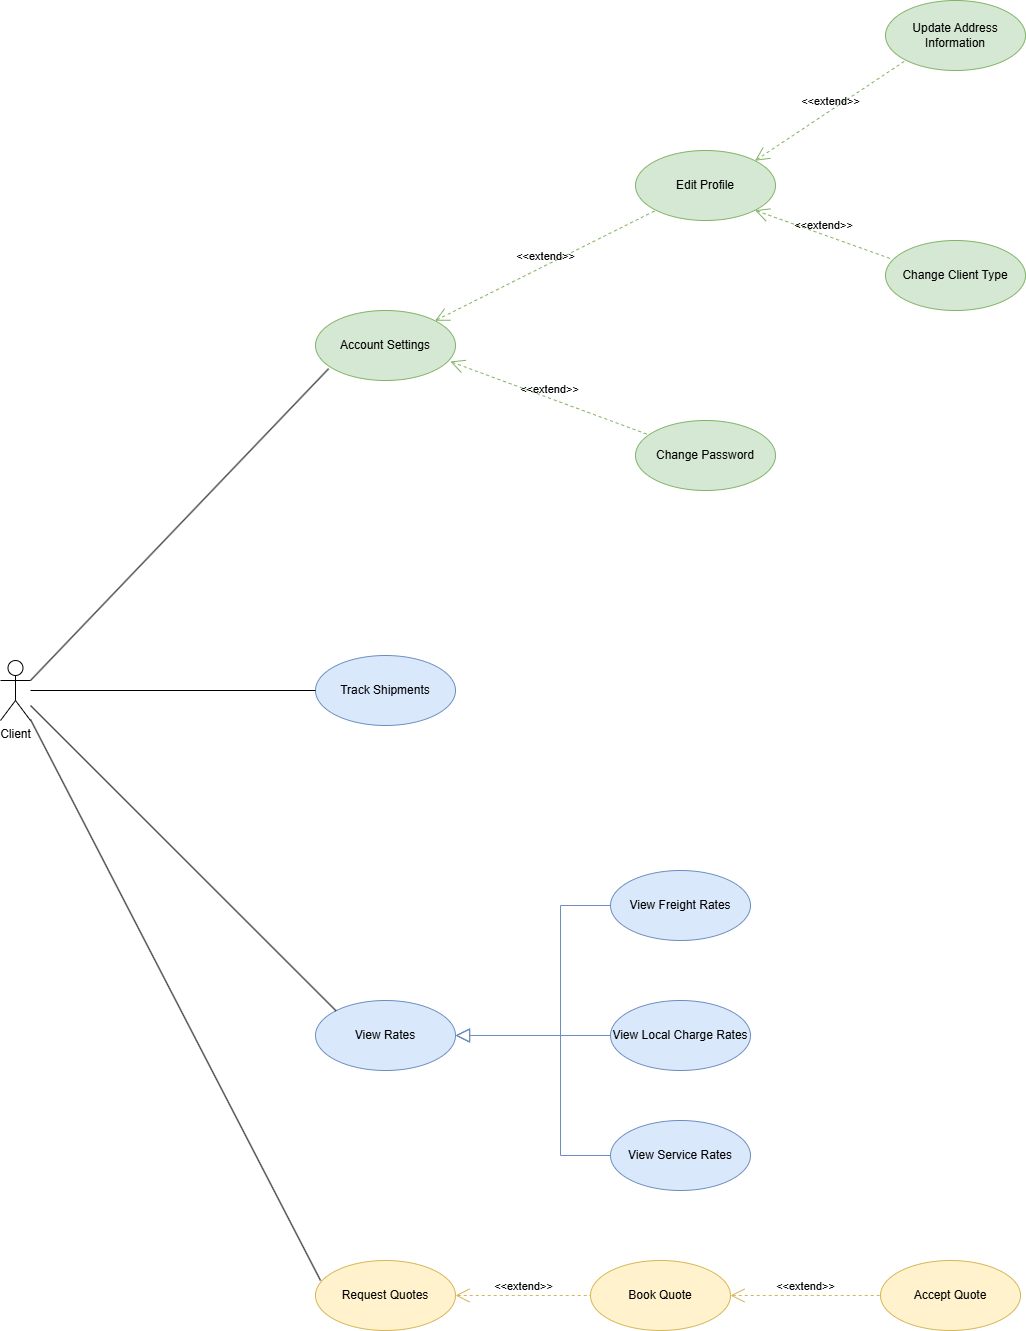
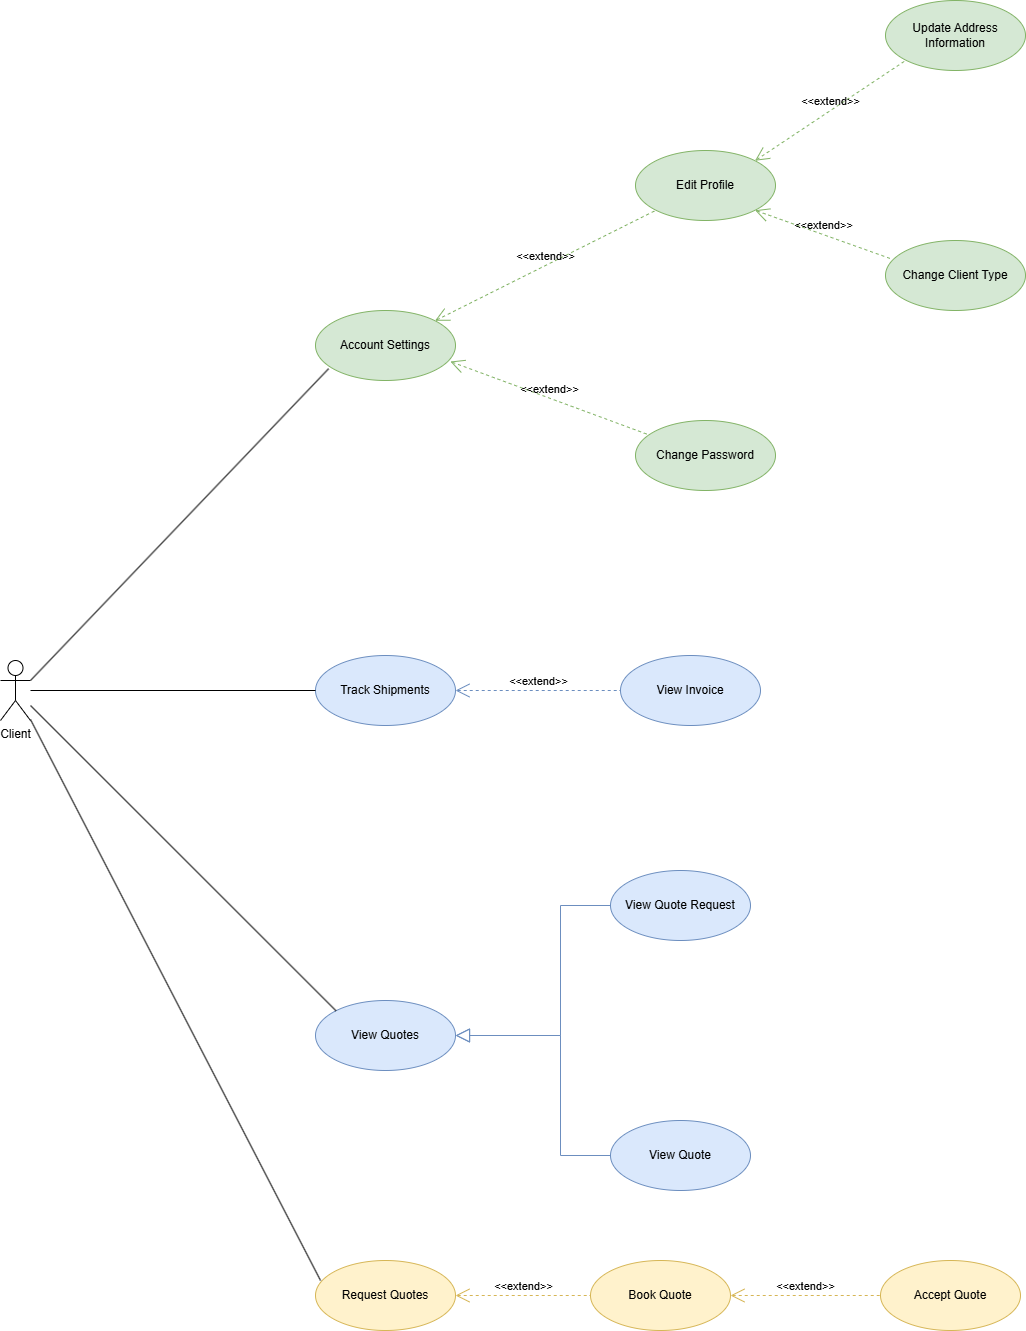
update full uc

diff --git a/chapters/main/3.sys-analysis.tex b/chapters/main/3.sys-analysis.tex
@@ -320,7 +320,7 @@ Actor            & Admin, Staff                       \\ \hline
 Description      & Search provider                       \\ \hline
 Preconditions    & Staff has view permission or Admin \\ \hline
 Postconditions &
-  Display a paginated list of agents related to the search information. \\ \hline
+  Display a paginated list of providers related to the search information. \\ \hline
 Normal Flow &
   \begin{tabular}[c]{@{}l@{}}1. Actor go to Providers.\\ 2. Actor enter code or name to search.\end{tabular} \\ \hline
 Exception Flow   & Keyword search does not match \\ \hline
@@ -427,35 +427,89 @@ Alternative Flow &                                 \\ \hline
 \begin{table}[H]
 \begin{tabularx}{\textwidth}{|p{0.25\textwidth}|X|}
 \hline
-Usecase name     & Change status of a quote request                                           \\ \hline
-Actor            & Staff                                                                      \\ \hline
-Description      & Change status of a quote request                                           \\ \hline
-Preconditions    & Staff has view and edit quote permission                                   \\ \hline
-Postconditions   & Update status successful                                                   \\ \hline
-Normal Flow &
-  \begin{tabular}[c]{@{}l@{}}1. Actor go to Quotations.\\ 2. Actor go to Quote Request tab.\\ 3. Actor choose a quote request.\\ 4. Actor choose status\\ 5. Actor choose update\end{tabular} \\ \hline
-Exception Flow   & 5a. Status changed failed because status must be changed level one by one. \\ \hline
-Alternative Flow &                                                                            \\ \hline
-\end{tabularx}
-\caption{Change quote request status}
-\label{tab:quote-request-status-change}
-\end{table}
-
-\begin{table}[H]
-\begin{tabularx}{\textwidth}{|p{0.25\textwidth}|X|}
-\hline
 Usecase name     & Create quote from request                        \\ \hline
 Actor            & Staff                                            \\ \hline
 Description      & Generate a quote from the quote request          \\ \hline
 Preconditions    & Staff has view, create and edit quote permission \\ \hline
 Postconditions   & Create quote successful                          \\ \hline
 Normal Flow &
-  \begin{tabular}[c]{@{}l@{}}1. Actor go to Quotations.\\ 2. Actor go to Quote Request tab.\\ 3. Actor choose a quote request.\\ 4. Actor choose create quote from request button.\\ 5. Actor choose confirm.\end{tabular} \\ \hline
+  \begin{tabular}[c]{@{}l@{}}1. Actor go to Quotations.\\ 2. Actor go to Quote Request tab.\\ 3. Actor choose a quote request.\\ 4. Actor choose create quote from request button.\\ 5. Actor fill required fields.\\ 6. Actor click on save button.\end{tabular} \\ \hline
 Exception Flow   &                                                  \\ \hline
 Alternative Flow &                                                  \\ \hline
 \end{tabularx}
 \caption{Create quote from request}
 \label{tab:quote-create-from-request}
+\end{table}
+
+\begin{table}[H]
+\begin{tabularx}{\textwidth}{|p{0.25\textwidth}|X|}
+\hline
+Usecase name     & Create quote                        \\ \hline
+Actor            & Staff                                            \\ \hline
+Description      & Generate a quote         \\ \hline
+Preconditions    & Staff has view, create and edit quote permission \\ \hline
+Postconditions   & Create quote successful                          \\ \hline
+Normal Flow &
+  \begin{tabular}[c]{@{}l@{}}1. Actor go to Quotations.\\ 2. Actor go to Quote tab.\\ 3. Actor choose create new button.\\4. Actor fill required fields.\\ 5. Actor click on save button.\end{tabular} \\ \hline
+Exception Flow   &                                                  \\ \hline
+Alternative Flow &                                                  \\ \hline
+\end{tabularx}
+\caption{Create quote}
+\label{tab:quote-create}
+\end{table}
+
+\begin{table}[H]
+\begin{tabularx}{\textwidth}{|p{0.25\textwidth}|X|}
+\hline
+Usecase name     & Search quotes                       \\ \hline
+Actor            & Admin, Staff                       \\ \hline
+Description      & Search quotes                       \\ \hline
+Preconditions    & Staff has view quote permission or Admin \\ \hline
+Postconditions &
+  Display a paginated list of quotes related to the search information. \\ \hline
+Normal Flow &
+  \begin{tabular}[c]{@{}l@{}}1. Actor go to Quotations.\\ 2. Actor go to Quote tab.\\3. Actor enter code to search.\end{tabular} \\ \hline
+Exception Flow   & Keyword search does not match \\ \hline
+Alternative Flow &                                    \\ \hline
+\end{tabularx}
+\caption{Search quotes}
+\label{tab:quote-search}
+\end{table}
+
+\begin{table}[H]
+\begin{tabularx}{\textwidth}{|p{0.25\textwidth}|X|}
+\hline
+Usecase name     & Search quotes filter field                     \\ \hline
+Actor            & Admin, Staff                       \\ \hline
+Description      & Search quote filter specific field                      \\ \hline
+Preconditions    & Staff has view quote permission or Admin \\ \hline
+Postconditions &
+  Display a paginated list of quotes related to the search information. \\ \hline
+Normal Flow &
+  \begin{tabular}[c]{@{}l@{}}1. Actor go to Quotations.\\ 2. Actor go to Quote tab.\\3. Actor click on search filter button.\\4. Actor choose field to search.\\5. Actor click on apply button.\end{tabular} \\ \hline
+Exception Flow   & Keyword search does not match \\ \hline
+Alternative Flow &                                    \\ \hline
+\end{tabularx}
+\caption{Search quotes filter field}
+\label{tab:quote-search-filter-field}
+\end{table}
+
+\begin{table}[H]
+\begin{tabularx}{\textwidth}{|p{0.25\textwidth}|X|}
+\hline
+Usecase name     & Sort quotes                       \\ \hline
+Actor            & Admin, Staff                       \\ \hline
+Description      & Sort quotes                       \\ \hline
+Preconditions    & Staff has view quote permission or Admin \\ \hline
+Postconditions &
+  Display a paginated list of quotes related to the sorted column. \\ \hline
+Normal Flow &
+  \begin{tabular}[c]{@{}l@{}}1. Actor go to Quotations.\\ 2. Actor go to Quote tab.\\3. Actor choose column to sort.\end{tabular} \\ \hline
+Exception Flow   &  \\ \hline
+Alternative Flow &                                    \\ \hline
+\end{tabularx}
+\caption{Sort quotes}
+\label{tab:quote-sort}
 \end{table}
 
 \subsubsection{Shipment Settings}
@@ -469,12 +523,80 @@ Preconditions &
   \begin{tabular}[c]{@{}l@{}}1. Staff has create shipment permission.\\ 2. A quote is created.\end{tabular} \\ \hline
 Postconditions   & Create shipment successful \\ \hline
 Normal Flow &
-  \begin{tabular}[c]{@{}l@{}}1. Actor go to Quotations.\\ 2. Actor go to Quote tab.\\ 3. Actor choose a quote not booked.\\ 4. Actor choose create shipment button.\\ 5. Actor update shipment information.\\ 6. Actor choose create.\end{tabular} \\ \hline
+  \begin{tabular}[c]{@{}l@{}}1. Actor go to Quotations.\\ 2. Actor go to Quote tab.\\ 3. Actor choose a quote not booked.\\ 4. Actor choose create shipment button.\\ 5. Actor update shipment information.\\ 6. Actor click on save button.\end{tabular} \\ \hline
 Exception Flow   &                            \\ \hline
 Alternative Flow &                            \\ \hline
 \end{tabularx}
 \caption{Create shipment from quote}
 \label{tab:shipment-create-from-quote}
+\end{table}
+
+\begin{table}[H]
+\begin{tabularx}{\textwidth}{|p{0.25\textwidth}|X|}
+\hline
+Usecase name     & View shipment               \\ \hline
+Actor            & Staff                      \\ \hline
+Description      & View a shipment             \\ \hline
+Preconditions & Staff has view shipment permission. \\ \hline
+Postconditions   & Display shipment detail. \\ \hline
+Normal Flow &
+  \begin{tabular}[c]{@{}l@{}}1. Actor go to Shipments.\\ 2. Actor choose a shipment.\\ 3. Actor click on view shipment button.\end{tabular} \\ \hline
+Exception Flow   &                            \\ \hline
+Alternative Flow &                            \\ \hline
+\end{tabularx}
+\caption{View shipment}
+\label{tab:shipment-view}
+\end{table}
+
+\begin{table}[H]
+\begin{tabularx}{\textwidth}{|p{0.25\textwidth}|X|}
+\hline
+Usecase name     & Upload shipment document               \\ \hline
+Actor            & Staff                      \\ \hline
+Description      & Upload related documents to shipment             \\ \hline
+Preconditions & Staff has shipment permission. \\ \hline
+Postconditions   & Display shipment detail. \\ \hline
+Normal Flow &
+  \begin{tabular}[c]{@{}l@{}}1. Actor go to Shipments.\\ 2. Actor choose a shipment.\\ 3. Actor click on view shipment button.\\ 4. Actor click Document tab.\\ 5. Actor upload new document.\\ 6. Actor click on save button.\\\end{tabular} \\ \hline
+Exception Flow   &                            \\ \hline
+Alternative Flow &                            \\ \hline
+\end{tabularx}
+\caption{Upload shipment document}
+\label{tab:shipment-upload-document}
+\end{table}
+
+\begin{table}[H]
+\begin{tabularx}{\textwidth}{|p{0.25\textwidth}|X|}
+\hline
+Usecase name     & Add shipment debit note               \\ \hline
+Actor            & Staff                      \\ \hline
+Description      & Add credit/debit note to shipment             \\ \hline
+Preconditions & Staff has shipment permission. \\ \hline
+Postconditions   & Add credit/debit note successful. \\ \hline
+Normal Flow &
+  \begin{tabular}[c]{@{}l@{}}1. Actor go to Shipments.\\ 2. Actor choose a shipment.\\ 3. Actor click on view shipment button.\\ 4. Actor click Profit and Loss tab.\\ 5. Actor add new credit/debit note.\\ 6. Actor click on save button.\\\end{tabular} \\ \hline
+Exception Flow   &                            \\ \hline
+Alternative Flow &                            \\ \hline
+\end{tabularx}
+\caption{Add shipment debit note}
+\label{tab:shipment-debit-not}
+\end{table}
+
+\begin{table}[H]
+\begin{tabularx}{\textwidth}{|p{0.25\textwidth}|X|}
+\hline
+Usecase name     & View shipment profit and loss               \\ \hline
+Actor            & Staff                      \\ \hline
+Description      & View a shipment             \\ \hline
+Preconditions & Staff has view shipment permission. \\ \hline
+Postconditions   & Display shipment profit and loss. \\ \hline
+Normal Flow &
+  \begin{tabular}[c]{@{}l@{}}1. Actor go to Shipments.\\ 2. Actor choose a shipment.\\ 3. Actor click on view shipment button.\\ 4. Actor click Profit and Loss tab.\end{tabular} \\ \hline
+Exception Flow   &                            \\ \hline
+Alternative Flow &                            \\ \hline
+\end{tabularx}
+\caption{View shipment profit and loss}
+\label{tab:shipment-profit-view}
 \end{table}
 
 \subsection{Usecase Diagram for Client}
@@ -485,6 +607,40 @@ Alternative Flow &                            \\ \hline
     \label{fig:Usecase Diagram for Client}
 \end{figure}
 
+\subsubsection{Quote Settings}
+\begin{table}[H]
+\begin{tabularx}{\textwidth}{|p{0.25\textwidth}|X|}
+\hline
+Usecase name     & Create quote request                  \\ \hline
+Actor            & Client                                 \\ \hline
+Description      & Create quote request                     \\ \hline
+Preconditions    & 1. Client has create quote request permission. \\ \hline
+Postconditions   & Display quote request detail         \\ \hline
+Normal Flow & \begin{tabular}[c]{@{}l@{}}1. Actor go to Quotes.\\ 2. Actor choose tab quote request.\\ 3. Actor click on add new button.\\4. Actor fill required fields.\\ 5. Actor click on save button. \end{tabular} \\ \hline
+Exception Flow   &                                        \\ \hline
+Alternative Flow &                                        \\ \hline
+\end{tabularx}
+\caption{Create quote request}
+\label{tab:quote-request-create}
+\end{table}
+
+\begin{table}[H]
+\begin{tabularx}{\textwidth}{|p{0.25\textwidth}|X|}
+\hline
+Usecase name     & Send quote request to staff                  \\ \hline
+Actor            & Client                                 \\ \hline
+Description      & Send quote request to staff                     \\ \hline
+Preconditions    & 1. Client has create quote request permission. \\ \hline
+Postconditions   & Send to staff successful         \\ \hline
+Normal Flow & \begin{tabular}[c]{@{}l@{}}1. Actor go to Quotes.\\ 2. Actor choose tab quote request.\\ 3. Actor click on existing quote request.\\ 4. Actor click on send button. \end{tabular} \\ \hline
+Exception Flow   &                                        \\ \hline
+Alternative Flow &                                        \\ \hline
+\end{tabularx}
+\caption{Send quote request}
+\label{tab:quote-request-send}
+\end{table}
+
+\subsubsection{Shipment Settings}
 \begin{table}[H]
 \begin{tabularx}{\textwidth}{|p{0.25\textwidth}|X|}
 \hline
@@ -497,10 +653,9 @@ Normal Flow & \begin{tabular}[c]{@{}l@{}}1. Actor go to Shipments.\\ 2. Actor ch
 Exception Flow   &                                        \\ \hline
 Alternative Flow &                                        \\ \hline
 \end{tabularx}
-\caption{View shipment}
-\label{tab:shipment-view}
+\caption{View shipment status}
+\label{tab:shipment-status-view}
 \end{table}
-
 
 \begin{table}[H]
 \begin{tabularx}{\textwidth}{|p{0.25\textwidth}|X|}

diff --git a/chapters/main/5.implementation.tex b/chapters/main/5.implementation.tex
@@ -335,8 +335,15 @@ Below are the key interfaces implemented in our system, along with their respect
 
 \begin{figure}[H]
     \centering
-    \includegraphics[width=15cm]{graphics/UI/new-quotes.png}
+    \includegraphics[width=15cm]{graphics/UI/quote-pricing.png}
     \caption{New Quote Creation}
+    \label{fig:new-quotes}
+\end{figure}
+
+\begin{figure}[H]
+    \centering
+    \includegraphics[width=15cm]{graphics/UI/quote-filter.png}
+    \caption{Quote Filter}
     \label{fig:new-quotes}
 \end{figure}
 
